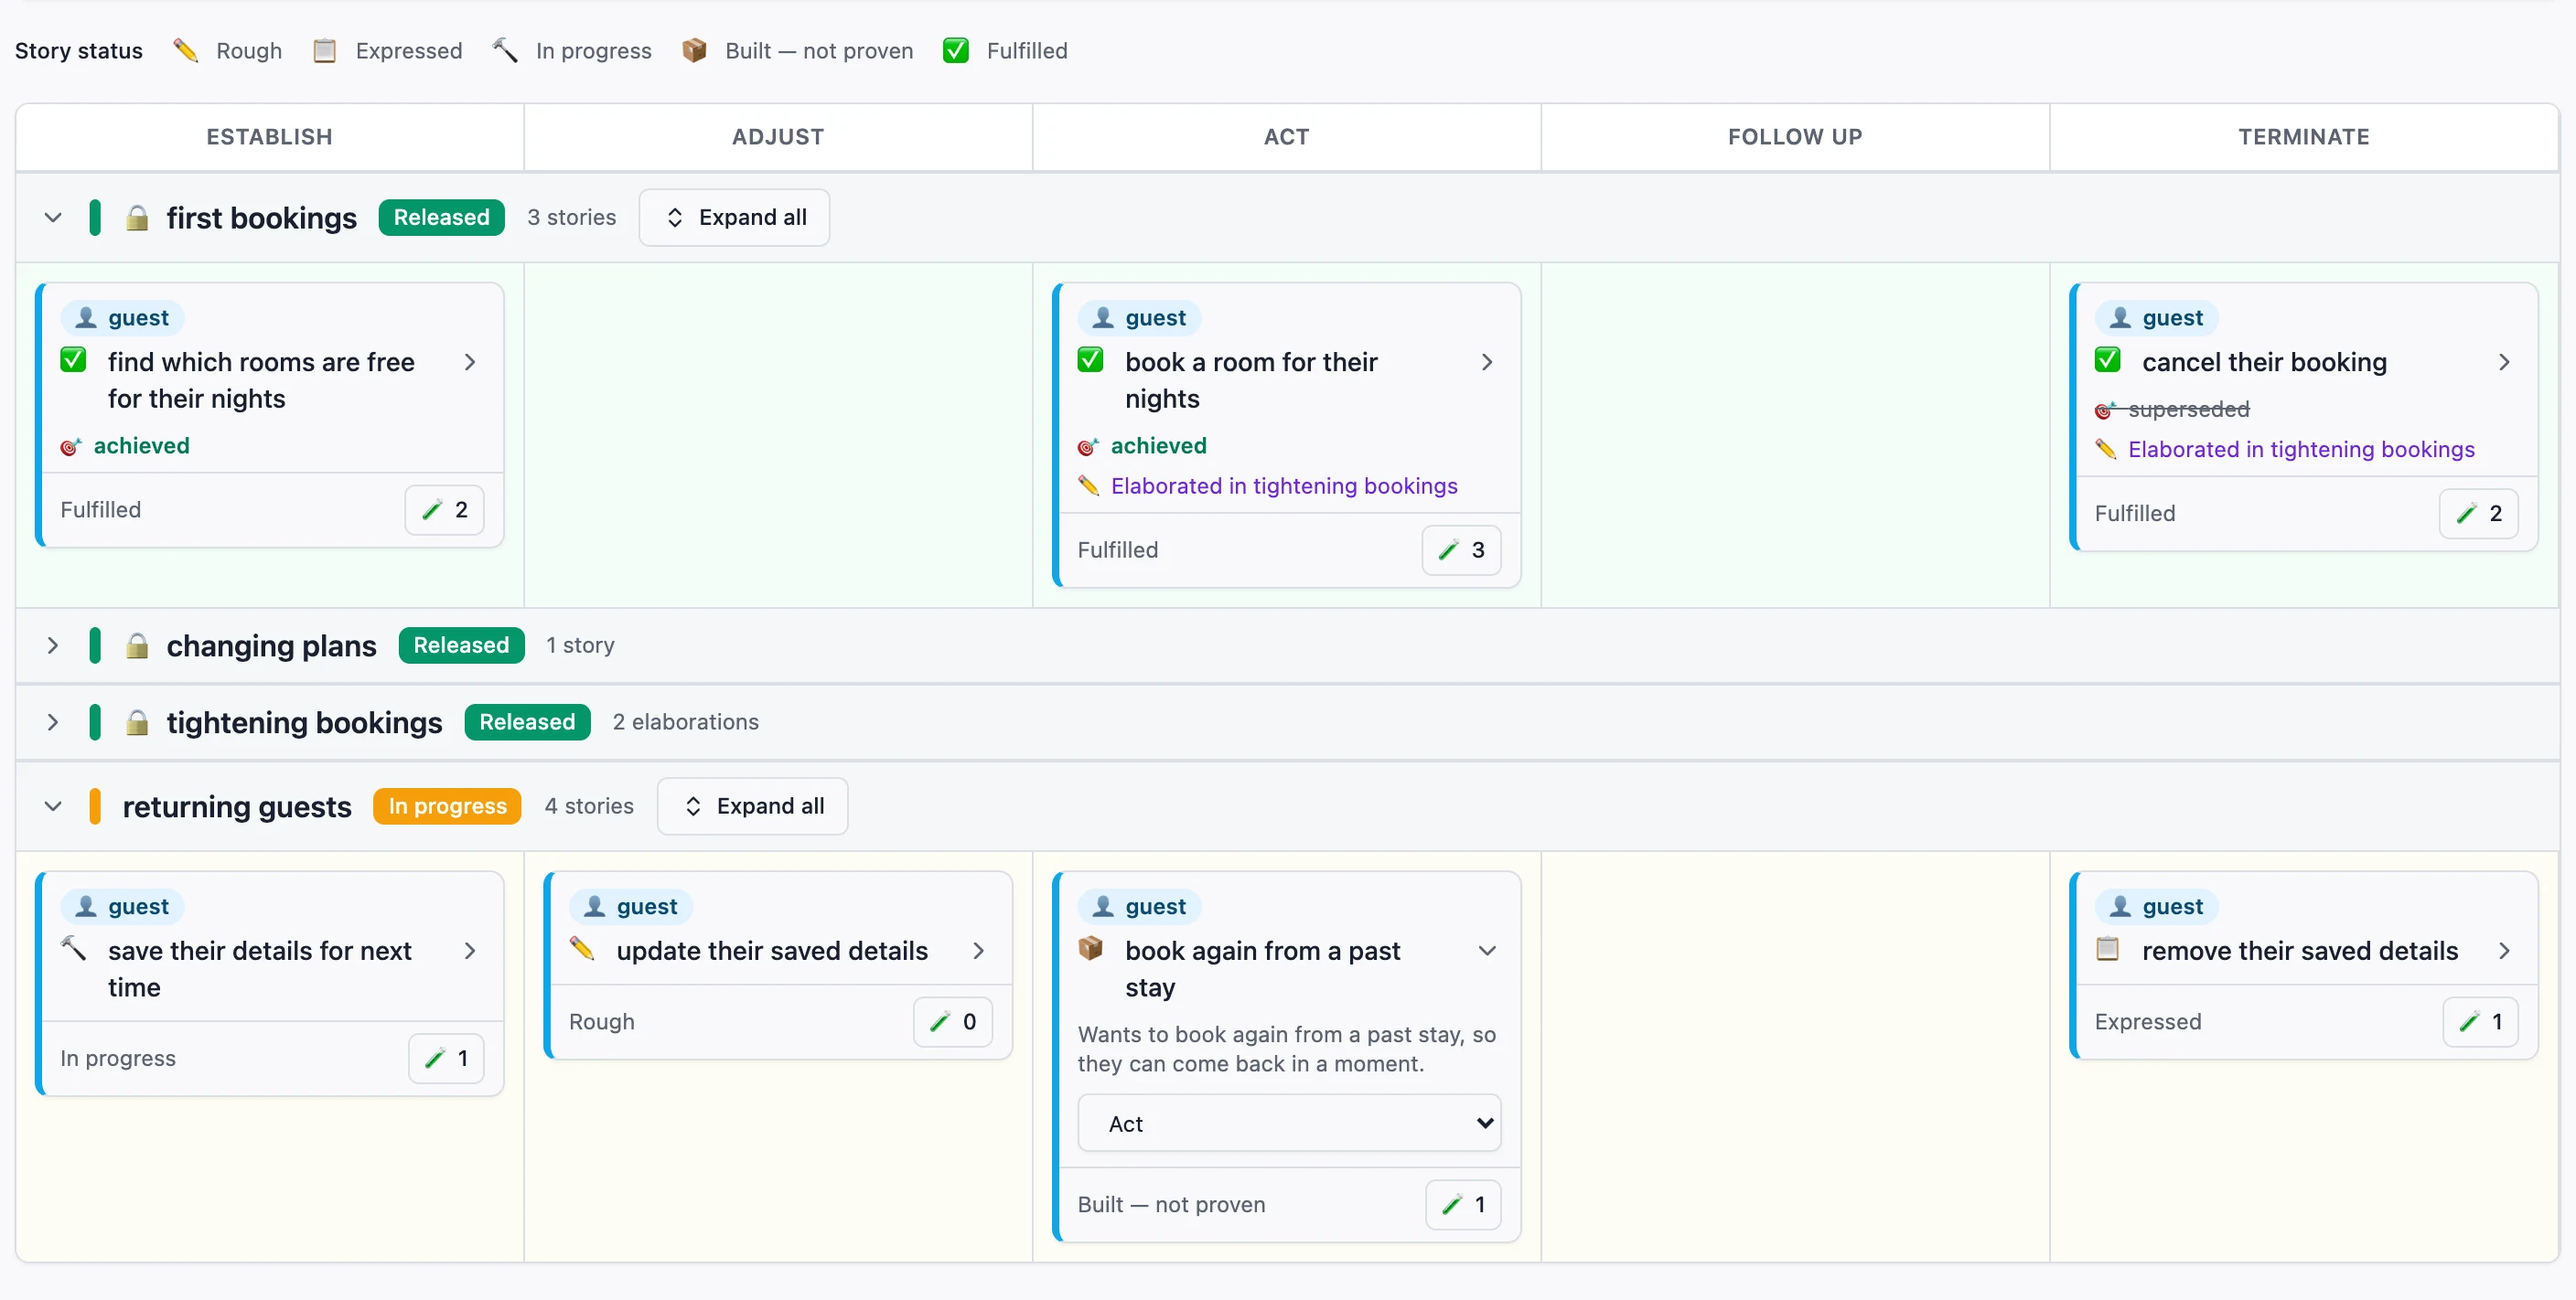
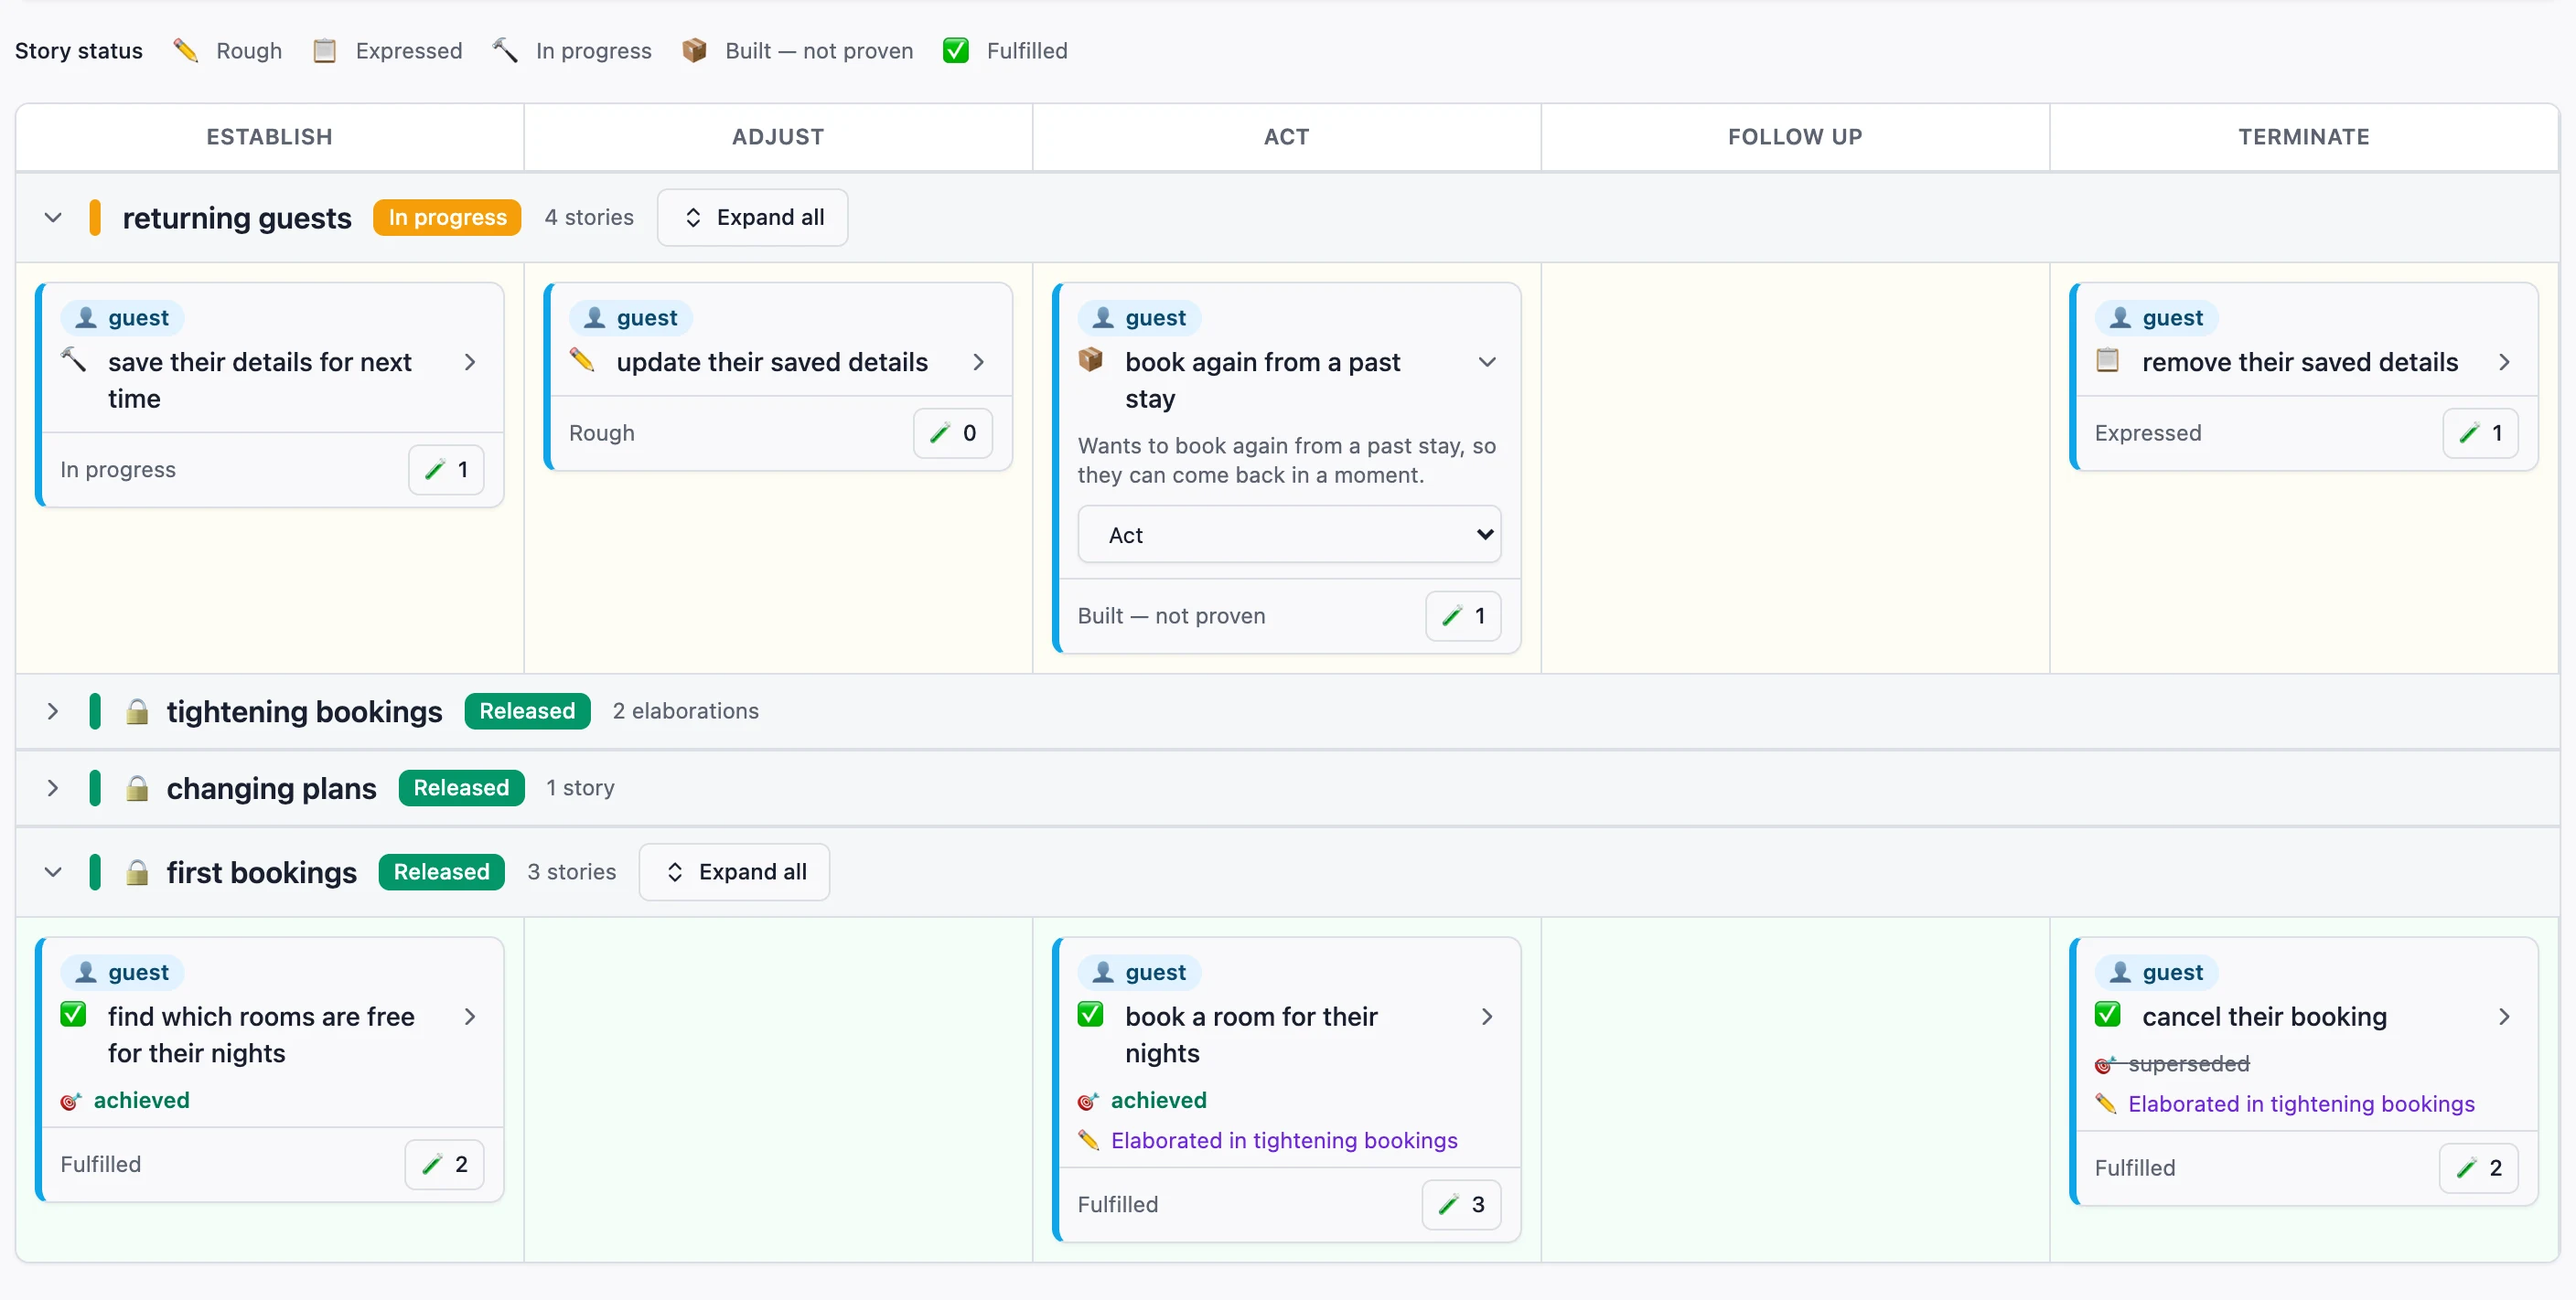
Story map screenshot and Slices of work panels read newest Phase first
spec-map.webp is retaken from the GUI against a copy of Pleasant Stay with
"returning guests" added, in the same state as before in the new order. The
alt text and both panels lead with the slice being built now.

diff --git a/index.html b/index.html
@@ -38,7 +38,7 @@
       <div class="wrap wide hero-shot">
         <figure class="shot">
           <div class="shot-bar" aria-hidden="true"><i></i><i></i><i></i><span>Barnspec · Story map</span></div>
-          <img src="assets/screens/spec-map.webp" width="1408" height="711" alt="The Barnspec story map. Three released slices of work are proven and ticked; the slice being built now shows each story's real state: rough, expressed, in progress, and built but not yet proven.">
+          <img src="assets/screens/spec-map.webp" width="1408" height="711" alt="The Barnspec story map. The slice being built now is at the top and shows each story's real state: rough, expressed, in progress, and built but not yet proven. The three released slices below it are proven and ticked.">
         </figure>
       </div>
     </section>
@@ -140,11 +140,11 @@
           </div>
           <div class="panel" aria-label="Slices of work: three released, one being built">
             <ul class="phases">
-              <li><span class="bar"></span><span class="name">first bookings</span><span class="meta">✓ released, proven</span></li>
-              <li><span class="bar"></span><span class="name">changing plans</span><span class="meta">✓ released, proven</span></li>
-              <li><span class="bar"></span><span class="name">tightening bookings</span><span class="meta">✓ released, proven</span></li>
-              <li class="now"><span class="bar"></span><span class="name">returning guests</span><span class="meta">being built now</span></li>
               <li class="void">Nothing else. That’s the point.</li>
+              <li class="now"><span class="bar"></span><span class="name">returning guests</span><span class="meta">being built now</span></li>
+              <li><span class="bar"></span><span class="name">tightening bookings</span><span class="meta">✓ released, proven</span></li>
+              <li><span class="bar"></span><span class="name">changing plans</span><span class="meta">✓ released, proven</span></li>
+              <li><span class="bar"></span><span class="name">first bookings</span><span class="meta">✓ released, proven</span></li>
             </ul>
           </div>
         </div>

diff --git a/barnspec.html b/barnspec.html
@@ -38,7 +38,7 @@
       <div class="wrap wide hero-shot">
         <figure class="shot">
           <div class="shot-bar" aria-hidden="true"><i></i><i></i><i></i><span>Barnspec · Story map</span></div>
-          <img src="assets/screens/spec-map.webp" width="1408" height="711" alt="The Barnspec story map for a hotel's reservations. Columns follow a guest's journey; rows are slices of work. Released slices are proven; the slice being built shows each story's real state.">
+          <img src="assets/screens/spec-map.webp" width="1408" height="711" alt="The Barnspec story map for a hotel's reservations. Columns follow a guest's journey; rows are slices of work. The slice being built is at the top and shows each story's real state; the released slices below it are proven.">
         </figure>
       </div>
     </section>
@@ -125,10 +125,10 @@
           </div>
           <div class="panel" aria-label="Slices of work: three released, one being built">
             <ul class="phases">
-              <li><span class="bar"></span><span class="name">first bookings</span><span class="meta">✓ released</span></li>
-              <li><span class="bar"></span><span class="name">changing plans</span><span class="meta">✓ released</span></li>
-              <li><span class="bar"></span><span class="name">tightening bookings</span><span class="meta">✓ released</span></li>
               <li class="now"><span class="bar"></span><span class="name">returning guests</span><span class="meta">being built now</span></li>
+              <li><span class="bar"></span><span class="name">tightening bookings</span><span class="meta">✓ released</span></li>
+              <li><span class="bar"></span><span class="name">changing plans</span><span class="meta">✓ released</span></li>
+              <li><span class="bar"></span><span class="name">first bookings</span><span class="meta">✓ released</span></li>
             </ul>
           </div>
         </div>
